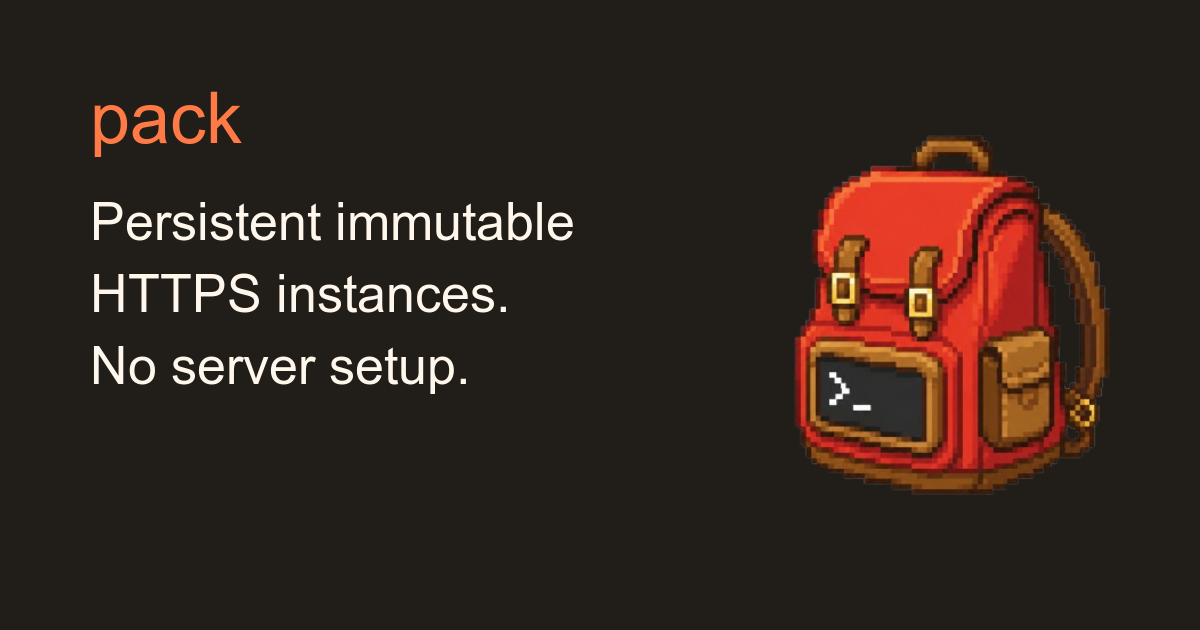
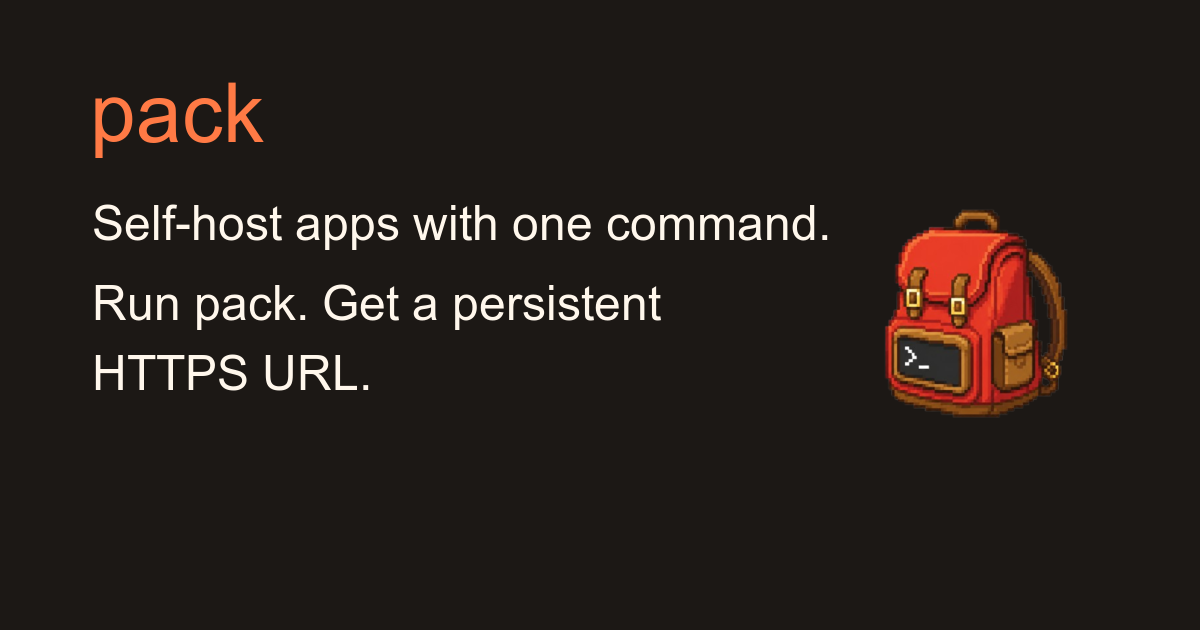
update social meta

diff --git a/site/index.html b/site/index.html
@@ -6,7 +6,7 @@
     <title>pack</title>
     <meta
       name="description"
-      content="Run pack to deploy a persistent immutable HTTPS instance with single command server install."
+      content="Self-host apps with one command. Run pack and get a persistent HTTPS URL."
     />
     <link rel="canonical" href="https://pack.sh/" />
     <meta name="theme-color" content="#111111" />
@@ -15,16 +15,16 @@
     <meta property="og:title" content="pack" />
     <meta
       property="og:description"
-      content="Run pack to deploy a persistent immutable HTTPS instance with single command server install."
+      content="Self-host apps with one command. Run pack and get a persistent HTTPS URL."
     />
-    <meta property="og:image" content="https://pack.sh/backpack.png" />
+    <meta property="og:image" content="https://pack.sh/pack-og.png" />
     <meta name="twitter:card" content="summary" />
     <meta name="twitter:title" content="pack" />
     <meta
       name="twitter:description"
-      content="Run pack to deploy a persistent immutable HTTPS instance with single command server install."
+      content="Self-host apps with one command. Run pack and get a persistent HTTPS URL."
     />
-    <meta name="twitter:image" content="https://pack.sh/backpack.png" />
+    <meta name="twitter:image" content="https://pack.sh/pack-og.png" />
     <link rel="icon" href="favicon.ico" sizes="any" />
     <link rel="icon" href="favicon.png" type="image/png" />
     <link rel="stylesheet" href="style.css" />

diff --git a/scripts/publish-site.ts b/scripts/publish-site.ts
@@ -50,9 +50,10 @@ await $`cp ${join(siteDir, "backpack.png")} ${join(outDir, "backpack.png")}`;
 await $`cp ${join(siteDir, "backpack-48.png")} ${join(outDir, "backpack-48.png")}`;
 await $`cp ${join(siteDir, "backpack-96.png")} ${join(outDir, "backpack-96.png")}`;
 await $`cp ${join(siteDir, "backpack-144.png")} ${join(outDir, "backpack-144.png")}`;
+await $`cp ${join(siteDir, "pack-og.png")} ${join(outDir, "pack-og.png")}`;
 await $`cp ${join(siteDir, "favicon.png")} ${join(outDir, "favicon.png")}`;
 await $`cp ${join(siteDir, "favicon.ico")} ${join(outDir, "favicon.ico")}`;
-await $`chmod 0644 ${join(outDir, "index.html")} ${join(outDir, "style.css")} ${join(outDir, "install.sh")} ${join(outDir, "install.ps1")} ${join(outDir, "server.sh")} ${join(outDir, "backpack.png")} ${join(outDir, "backpack-48.png")} ${join(outDir, "backpack-96.png")} ${join(outDir, "backpack-144.png")} ${join(outDir, "favicon.png")} ${join(outDir, "favicon.ico")}`;
+await $`chmod 0644 ${join(outDir, "index.html")} ${join(outDir, "style.css")} ${join(outDir, "install.sh")} ${join(outDir, "install.ps1")} ${join(outDir, "server.sh")} ${join(outDir, "backpack.png")} ${join(outDir, "backpack-48.png")} ${join(outDir, "backpack-96.png")} ${join(outDir, "backpack-144.png")} ${join(outDir, "pack-og.png")} ${join(outDir, "favicon.png")} ${join(outDir, "favicon.ico")}`;
 for (const path of [indexPath, join(outDir, "style.css"), join(outDir, "install.sh"), join(outDir, "install.ps1"), join(outDir, "server.sh")]) {
   await $`gzip -kf -9 ${path}`;
   await $`brotli -f -q 11 ${path}`;